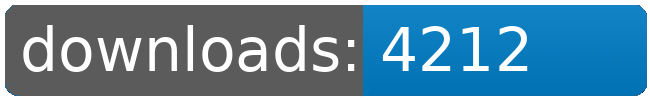
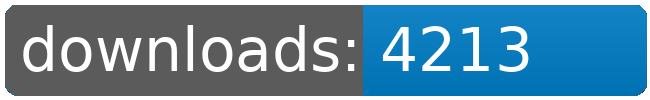
dl log written

Changed region(s): [[0.7692, 0.42, 0.8308, 0.72], [0.7692, 0.27, 0.8308, 0.39]]

diff --git a/README.md b/README.md
@@ -43,8 +43,8 @@
 		<td>5199</td>
 		<td>5220</td>
 		<td>5240</td>
-		<td>5255</td>
-		<td>+ 15</td>
+		<td>5256</td>
+		<td>+ 16</td>
 	</tr>
 	<tr>
 		<td>Jaws</td>
@@ -87,8 +87,8 @@
 		<td>4155</td>
 		<td>4175</td>
 		<td>4197</td>
-		<td>4212</td>
-		<td>+ 15</td>
+		<td>4213</td>
+		<td>+ 16</td>
 	</tr>
 	<tr>
 		<td>Zone.of.Control</td>
@@ -109,8 +109,8 @@
 		<td></td>
 		<td></td>
 		<td></td>
-		<td>35079</td>
-		<td>128</td>
+		<td>35081</td>
+		<td>130</td>
 	</tr>
 </table>
 </sub></sup>
@@ -135,8 +135,8 @@
 		<td>5199</td>
 		<td>5220</td>
 		<td>5240</td>
-		<td>5255</td>
-		<td>+ 15</td>
+		<td>5256</td>
+		<td>+ 16</td>
 	</tr>
 	<tr>
 		<td>Louise.Conglomerate.Shipyards</td>
@@ -179,8 +179,8 @@
 		<td>4155</td>
 		<td>4175</td>
 		<td>4197</td>
-		<td>4212</td>
-		<td>+ 15</td>
+		<td>4213</td>
+		<td>+ 16</td>
 	</tr>
 	<tr>
 		<td>Factory.Outlets</td>
@@ -223,8 +223,8 @@
 		<td></td>
 		<td></td>
 		<td></td>
-		<td>35079</td>
-		<td>128</td>
+		<td>35081</td>
+		<td>130</td>
 	</tr>
 </table>
 </sub></sup>
